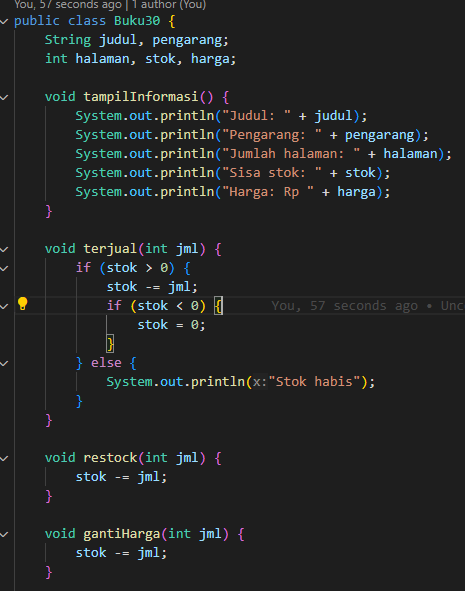
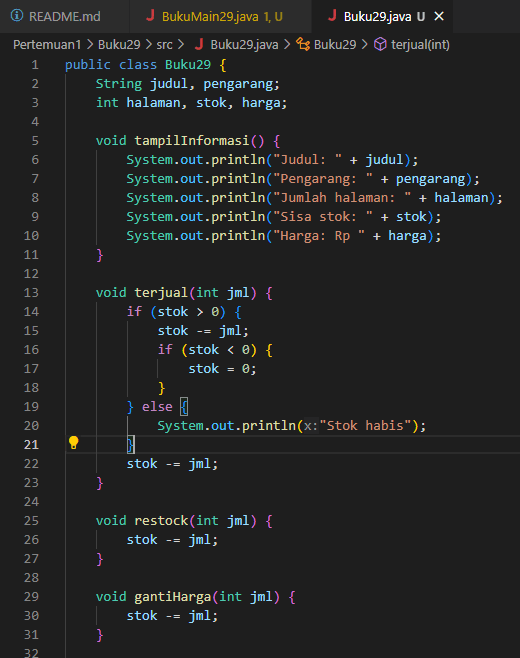
Modifikasi no 4

diff --git a/Pertemuan1/Buku29/src/Buku29.java b/Pertemuan1/Buku29/src/Buku29.java
@@ -1,4 +1,4 @@
-public class Buku30 {
+public class Buku29 {
     String judul, pengarang;
     int halaman, stok, harga;
 
@@ -19,6 +19,7 @@ public class Buku30 {
         } else {
             System.out.println("Stok habis");
         }
+        stok -= jml;
     }
 
     void restock(int jml) {

diff --git a/Pertemuan1/Buku29/src/BukuMain29.java b/Pertemuan1/Buku29/src/BukuMain29.java
@@ -1,0 +1,5 @@
+public class BukuMain29 {
+    public static void main(String[] args) {
+        Buku29 bk1 = new Buku29();
+    }
+}
